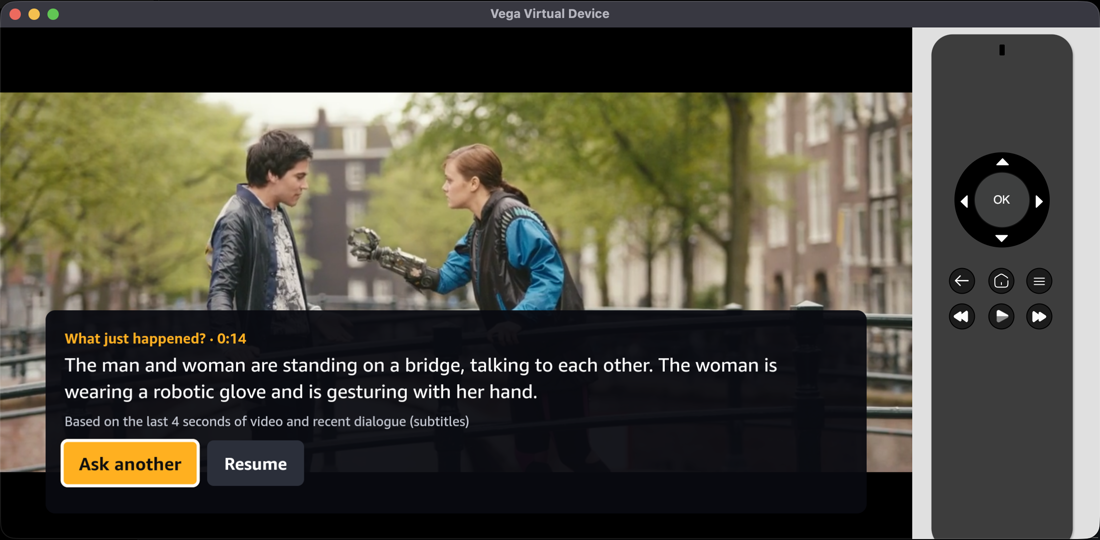
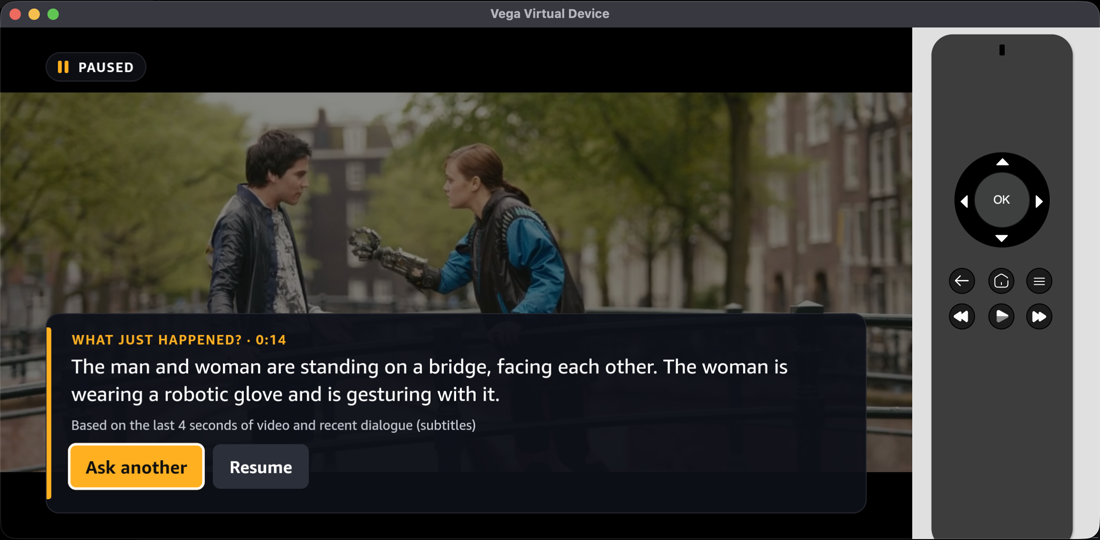
Redesign the paused UI: floating card, dim layer, paused badge, styled answer card; refresh README images

diff --git a/app/src/components/QuestionOverlay.tsx b/app/src/components/QuestionOverlay.tsx
@@ -14,28 +14,31 @@ export const QuestionOverlay = ({t, onChoose, large, onToggleLarge}: Props) => {
   const styles = StyleSheet.create({
     panel: {
       position: 'absolute',
-      top: 0,
-      bottom: 0,
-      right: 0,
-      width: px(820 + SAFE_X),
-      paddingLeft: px(56),
-      paddingRight: px(SAFE_X),
-      paddingVertical: px(SAFE_Y),
-      backgroundColor: 'rgba(8,10,16,0.92)',
+      top: px(SAFE_Y + 10),
+      bottom: px(SAFE_Y),
+      right: px(SAFE_X),
+      width: px(780),
+      paddingHorizontal: px(44),
+      paddingVertical: px(36),
+      borderRadius: px(28),
+      borderWidth: px(2),
+      borderColor: colors.cardBorder,
+      backgroundColor: colors.card,
       zIndex: 20,
       justifyContent: 'center',
     },
-    title: {color: colors.textPrimary, fontSize: fs(48), fontWeight: '700'},
-    sub: {color: colors.textSecondary, fontSize: fs(30), marginBottom: px(30), marginTop: px(6)},
-    hint: {color: colors.textSecondary, fontSize: fs(28), marginTop: px(12)},
+    kicker: {color: colors.accent, fontSize: fs(28), fontWeight: '700', letterSpacing: 1},
+    title: {color: colors.textPrimary, fontSize: fs(48), fontWeight: '700', marginTop: px(4), marginBottom: px(26)},
+    footer: {flexDirection: 'row', alignItems: 'center', justifyContent: 'space-between', marginTop: px(8)},
+    hint: {color: colors.textSecondary, fontSize: fs(28)},
   });
   return (
     <TVFocusGuideView autoFocus trapFocusUp trapFocusDown trapFocusLeft trapFocusRight style={styles.panel}>
       <View
         accessible
         aria-label={`Ask about this moment. Paused at ${spokenTime(t)}. Four questions. Press back to resume.`}>
+        <Text style={styles.kicker}>PAUSED AT {formatTime(t)}</Text>
         <Text style={styles.title}>Ask about this moment</Text>
-        <Text style={styles.sub}>Paused at {formatTime(t)}</Text>
       </View>
       <View>
         {QUESTIONS.map((q, i) => (
@@ -47,9 +50,11 @@ export const QuestionOverlay = ({t, onChoose, large, onToggleLarge}: Props) => {
             onPress={() => onChoose(q)}
           />
         ))}
-        <FocusableButton label={large ? 'Text size: Larger (on)' : 'Text size: Larger'} onPress={onToggleLarge} />
       </View>
-      <Text style={styles.hint}>Back to resume</Text>
+      <View style={styles.footer}>
+        <FocusableButton secondary label={large ? 'Larger text: on' : 'Larger text'} onPress={onToggleLarge} />
+        <Text style={styles.hint}>Back to resume</Text>
+      </View>
     </TVFocusGuideView>
   );
 };

diff --git a/app/src/components/FocusableButton.tsx b/app/src/components/FocusableButton.tsx
@@ -3,25 +3,33 @@ import {Pressable, StyleSheet, Text} from 'react-native';
 import {colors} from '../theme';
 import {px, useFont} from '../ui';
 
-type Props = {label: string; onPress: () => void; preferred?: boolean; ariaLabel?: string; hint?: string};
+type Props = {
+  label: string;
+  onPress: () => void;
+  preferred?: boolean;
+  ariaLabel?: string;
+  hint?: string;
+  secondary?: boolean; // smaller, outlined: for controls that are not questions
+};
 
 // Focus is shown with a thick border plus scale and fill (not colour alone) for 10-foot legibility.
-export const FocusableButton = ({label, onPress, preferred, ariaLabel, hint}: Props) => {
+export const FocusableButton = ({label, onPress, preferred, ariaLabel, hint, secondary}: Props) => {
   const [focused, setFocused] = useState(false);
   const fs = useFont();
   const styles = StyleSheet.create({
     button: {
-      paddingVertical: px(20),
-      paddingHorizontal: px(30),
-      marginBottom: px(18),
-      borderRadius: px(14),
-      borderWidth: px(6),
-      borderColor: 'transparent',
-      backgroundColor: colors.buttonBg,
+      paddingVertical: px(secondary ? 12 : 20),
+      paddingHorizontal: px(secondary ? 24 : 30),
+      marginBottom: px(secondary ? 0 : 14),
+      borderRadius: px(16),
+      borderWidth: px(5),
+      borderColor: secondary ? colors.cardBorder : 'transparent',
+      backgroundColor: secondary ? 'transparent' : colors.buttonBg,
+      alignSelf: secondary ? 'flex-start' : 'stretch',
     },
-    focused: {borderColor: colors.focusBorder, backgroundColor: colors.accent, transform: [{scale: 1.06}]},
-    label: {color: colors.textPrimary, fontSize: fs(36), fontWeight: '600'},
-    labelFocused: {color: colors.onAccent},
+    focused: {borderColor: colors.focusBorder, backgroundColor: colors.accent, transform: [{scale: 1.05}]},
+    label: {color: colors.textPrimary, fontSize: fs(secondary ? 28 : 36), fontWeight: secondary ? '500' : '600'},
+    labelFocused: {color: colors.onAccent, fontWeight: '700'},
   });
   return (
     <Pressable

diff --git a/app/src/components/AnswerCard.tsx b/app/src/components/AnswerCard.tsx
@@ -33,22 +33,37 @@ export const AnswerCard = ({state, onRetry, onDismiss, onAskAgain}: Props) => {
       left: px(SAFE_X),
       right: px(SAFE_X),
       bottom: px(SAFE_Y),
-      padding: px(40),
-      borderRadius: px(20),
-      backgroundColor: 'rgba(8,10,16,0.94)',
+      paddingVertical: px(36),
+      paddingLeft: px(52),
+      paddingRight: px(44),
+      borderRadius: px(28),
+      borderWidth: px(2),
+      borderColor: colors.cardBorder,
+      backgroundColor: colors.card,
       zIndex: 20,
     },
-    question: {color: colors.accent, fontSize: fs(30), fontWeight: '600', marginBottom: px(12)},
-    answer: {color: colors.textPrimary, fontSize: fs(40), lineHeight: fs(56)},
-    note: {color: colors.textSecondary, fontSize: fs(28), marginTop: px(16)},
+    accentBar: {
+      position: 'absolute',
+      left: 0,
+      top: px(28),
+      bottom: px(28),
+      width: px(10),
+      borderTopRightRadius: px(6),
+      borderBottomRightRadius: px(6),
+      backgroundColor: colors.accent,
+    },
+    question: {color: colors.accent, fontSize: fs(28), fontWeight: '700', letterSpacing: 1, marginBottom: px(12)},
+    answer: {color: colors.textPrimary, fontSize: fs(42), lineHeight: fs(58)},
+    note: {color: colors.textSecondary, fontSize: fs(28), marginTop: px(18)},
     row: {flexDirection: 'row', marginTop: px(24)},
     gap: {width: px(24)},
   });
 
   return (
     <TVFocusGuideView autoFocus trapFocusUp trapFocusDown trapFocusLeft trapFocusRight style={styles.card}>
+      <View style={styles.accentBar} aria-hidden />
       <Text style={styles.question}>
-        {state.question} · {formatTime(state.t)}
+        {state.question.toUpperCase()} · {formatTime(state.t)}
       </Text>
       {state.phase === 'loading' && (
         <View>

diff --git a/app/src/components/PausedBadge.tsx b/app/src/components/PausedBadge.tsx
@@ -1,0 +1,37 @@
+import React from 'react';
+import {StyleSheet, Text, View} from 'react-native';
+import {colors} from '../theme';
+import {px, SAFE_X, SAFE_Y, useFont} from '../ui';
+
+// Top-left "Paused" pill with a pause glyph (two bars), shown whenever Moment has paused the video.
+export const PausedBadge = () => {
+  const fs = useFont();
+  const styles = StyleSheet.create({
+    pill: {
+      position: 'absolute',
+      top: px(SAFE_Y),
+      left: px(SAFE_X),
+      flexDirection: 'row',
+      alignItems: 'center',
+      paddingVertical: px(12),
+      paddingHorizontal: px(24),
+      borderRadius: px(999),
+      backgroundColor: 'rgba(14,16,24,0.85)',
+      borderWidth: px(2),
+      borderColor: colors.cardBorder,
+      zIndex: 25,
+    },
+    bars: {flexDirection: 'row', marginRight: px(14)},
+    bar: {width: px(8), height: px(26), borderRadius: px(3), backgroundColor: colors.accent, marginRight: px(6)},
+    text: {color: colors.textPrimary, fontSize: fs(28), fontWeight: '600', letterSpacing: 1},
+  });
+  return (
+    <View style={styles.pill} aria-hidden>
+      <View style={styles.bars}>
+        <View style={styles.bar} />
+        <View style={styles.bar} />
+      </View>
+      <Text style={styles.text}>PAUSED</Text>
+    </View>
+  );
+};

diff --git a/app/src/App.tsx b/app/src/App.tsx
@@ -7,6 +7,8 @@ import {TextScaleContext} from './ui';
 import {QuestionOverlay} from './components/QuestionOverlay';
 import {AnswerCard} from './components/AnswerCard';
 import {IdleHint} from './components/IdleHint';
+import {PausedBadge} from './components/PausedBadge';
+import {colors} from './theme';
 
 const useIdleHint = (idle: boolean): boolean => {
   const [visible, setVisible] = useState(true);
@@ -44,6 +46,8 @@ export const App = () => {
           onSurfaceViewDestroyed={player.onSurfaceViewDestroyed}
         />
         <IdleHint visible={hint} />
+        {state.phase !== 'idle' && <View style={styles.dim} pointerEvents="none" />}
+        {state.phase !== 'idle' && <PausedBadge />}
         {state.phase === 'asking' && (
           <QuestionOverlay t={state.t} onChoose={(q) => choose(q, state.t)} large={large} onToggleLarge={() => setLarge((v) => !v)} />
         )}
@@ -58,4 +62,5 @@ export const App = () => {
 const styles = StyleSheet.create({
   root: {flex: 1, backgroundColor: 'black'},
   video: {...StyleSheet.absoluteFillObject, zIndex: 0},
+  dim: {...StyleSheet.absoluteFillObject, backgroundColor: colors.dim, zIndex: 10},
 });

diff --git a/app/src/theme.ts b/app/src/theme.ts
@@ -1,6 +1,9 @@
 // Colour tokens. Contrast ratios are locked by app/test/contrast.test.ts (WCAG AA: 4.5:1 text, 3:1 focus).
 export const colors = {
-  scrim: '#171819', // worst case: a white video frame behind rgba(8,10,16,0.92-0.94)
+  scrim: '#171819', // worst case: a white video frame behind the card background
+  card: 'rgba(14,16,24,0.94)',
+  cardBorder: 'rgba(255,255,255,0.10)',
+  dim: 'rgba(0,0,0,0.45)',
   textPrimary: '#ffffff',
   textSecondary: '#c8ccd6',
   accent: '#ffb020',

diff --git a/docs/PROGRESS.md b/docs/PROGRESS.md
@@ -76,3 +76,4 @@
 - Placeholders that need real data: owner spot-check agreement rate; user-test summary or "not run"; repository URL and visibility; demo video URL.
 - Open decisions for the owner: repo public (after a history scrub, force-push) vs private + reviewers; enter the Open Source mini challenge or not; demo uses the build-time clip switch (option a).
 - Fresh-clone check (Oct 5, from a clean clone of origin/main in a new folder, following the README): backend `npm install` + 42 tests pass; `fetch-clips.ts tos` and `prepare-app-clip.ts tos` work; stub server answers `/ask` with the right frame window; app `npm install`, typecheck and 11 tests pass; `npm run build:app` produces `moment-app_aarch64.vpkg` and the app plays the clip on the Vega Virtual Device. Not re-run from the clone: live mode (needs AWS), the full six-clip fetch.
+- UI redesign after owner feedback ("looks not very nice when paused"): floating card, dim layer, PAUSED badge, accent-bar answer card, secondary "Larger text" button; README GIF/screenshots regenerated from the new build; app tests still 11 passing. Owner decisions recorded: repo goes public after a history scrub around Oct 19 (owner told before the force-push); Open Source mini challenge skipped unless clearly ahead on Oct 17; demo clip switched by rebuilding with `prepare-app-clip.ts`.

diff --git a/docs/DECISIONS.md b/docs/DECISIONS.md
@@ -28,3 +28,4 @@
 | 2026-10-05 | Keep the amber accent; add a "Text size: Larger" toggle (x1.25, in memory only) | Owner choice (kept the recommended defaults); contrast already AA, locked by tests | Cool blue accent; long-press resize |
 | 2026-10-05 | Remote table: Menu/Select open; Menu/Back/Play-Pause close; on an answer Menu re-opens the questions at the same moment ("Ask another"); Play/Pause event is named `play` on the VVD | Measured with a key logger | Ignore Play/Pause while the panel is open (left the video state ambiguous) |
 | 2026-10-05 | Answer note "Based on the last N seconds of video [and recent dialogue (subtitles)]" computed from the frames actually used (backend now returns cuesUsed) | Honest provenance; the text preset gets no dialogue so the note must not claim it | Fixed wording |
+| 2026-10-05 | Paused-state redesign: floating rounded card (not a full-height slab), dimmed video behind it, "PAUSED" badge top-left, accent bar on the answer card, text-size control demoted to a small secondary "Larger text" button | The first Phase 4 version looked like a flat panel with a hard edge cutting the scene and no clear paused indicator (owner feedback) | Keep the slab |
